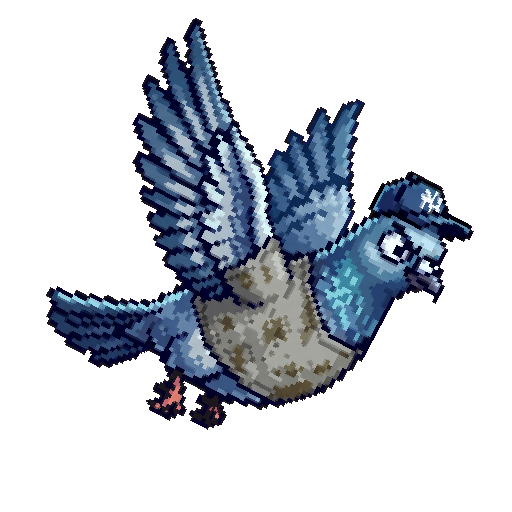
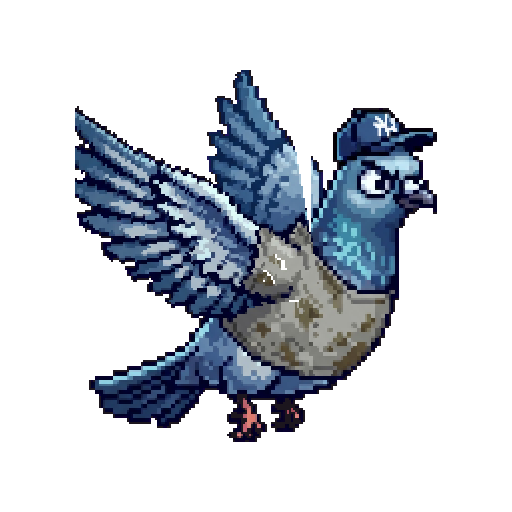
Pigeon de New York : battement d'ailes (ailes levées, à mi-hauteur, baissées) fait par outils/anime-pigeon.py ; une ligne d'état peut porter plusieurs images
Claude-Session: https://claude.ai/code/session_01HgrvGb7mGF2qXcgMaLdPZX

diff --git a/src/rendu/feuilles-ennemis.ts b/src/rendu/feuilles-ennemis.ts
@@ -258,7 +258,7 @@ export const FEUILLES_ENNEMIS: Partial<Record<Genre, Feuille>> = {
     fichier: 'pigeons.png',
     w: 88,
     h: 84,
-    images: [1, 0, 0, 0, 0, 0, 0, 0, 0, 0, 1],
+    images: [3, 0, 0, 0, 0, 0, 0, 0, 0, 0, 1],
     rythme: 8,
     densite: 6,
   },

diff --git a/outils/anime-pigeon.py b/outils/anime-pigeon.py
@@ -1,0 +1,83 @@
+#!/usr/bin/env python3
+"""Le battement d'ailes du pigeon de New York, fait à la main à partir de son sprite de vol.
+
+Usage : python3 outils/anime-pigeon.py      (Pillow et numpy requis)
+
+Entrée  : assets-sources/ennemis/pigeon-1-base.png (le vol, ailes levées)
+Sorties : pigeon-2-base.png (ailes à mi-hauteur) et pigeon-3-base.png (ailes baissées), mêmes dimensions que l'entrée ;
+          fixe-ennemis.py les range sur la ligne du vol (voir ETATS). Le piqué, pigeon-4-base.png, n'est pas touché.
+
+Les ailes (les plumes au-dessus du corps, à gauche de la tête) tournent d'un bloc autour de l'épaule ; le corps, la tête et la
+queue restent en place. Là où l'aile découverte laissait un trou, on reprend la couleur du corps juste en dessous.
+"""
+import pathlib
+import sys
+
+import numpy as np
+from PIL import Image
+
+sys.path.insert(0, str(pathlib.Path(__file__).resolve().parent))
+from anime_commun import SRC, tourne
+from prepare_instrument import natif_et_case
+
+EPAULE = (84, 86)  # où les ailes s'attachent, sur la grille native (recadrée sur la silhouette)
+DEGRES = {2: 10, 3: 20}  # le numéro de l'image → l'angle de l'aile : positif, elle baisse
+
+
+def recadre(chemin):
+    nat, _ = natif_et_case(chemin)
+    ys, xs = np.nonzero(nat[..., 3])
+    return nat[ys.min() : ys.max() + 1, xs.min() : xs.max() + 1]
+
+
+def masques(nat):
+    """L'aile (les plumes au-dessus du corps et à gauche de la tête) et le reste."""
+    h, w = nat.shape[:2]
+    yy, xx = np.mgrid[0:h, 0:w]
+    r, g, b = (nat[..., i].astype(int) for i in range(3))
+    op = nat[..., 3] > 0
+    beige = (r > 100) & (r - b > 12) & (abs(r - g) < 30) & (r >= g - 5)
+    aile = op & (yy <= 118) & (xx <= 117) & ~beige
+    return aile
+
+
+def image_aile(nat, aile, angle):
+    """Le vol avec l'aile tournée de `angle` degrés autour de l'épaule ; les trous laissés par l'aile reprennent le corps dessous."""
+    reste = nat.copy()
+    reste[aile] = 0
+    calque = np.zeros_like(nat)
+    calque[aile] = nat[aile]
+    tournee = tourne(calque, EPAULE, angle, marge=0)
+    sortie = reste.copy()
+    for y, x in zip(*np.nonzero(tournee[..., 3])):
+        sortie[y, x] = tournee[y, x]
+    # les pixels qu'on découvre (ils étaient de l'aile, ils ne sont plus couverts) : la couleur du corps juste en dessous
+    h = nat.shape[0]
+    for y, x in zip(*np.nonzero(aile & (sortie[..., 3] == 0))):
+        # seulement un trou dans le corps : du corps juste dessous, et du corps à côté (pas le ciel au-dessus du dos)
+        dessous = next((k for k in range(y + 1, min(h, y + 4)) if reste[k, x, 3]), None)
+        cote = any(sortie[y, x + d, 3] for d in (-2, -1, 1, 2) if 0 <= x + d < nat.shape[1])
+        if dessous is not None and cote:
+            sortie[y, x] = reste[dessous, x]
+    return sortie
+
+
+def vers_base(nat, chemin):
+    """Le sprite remis dans le format des fichiers de base (deux fois agrandi, centré dans 512 × 512)."""
+    up = np.repeat(np.repeat(nat, 2, 0), 2, 1)
+    base = np.zeros((512, 512, 4), np.uint8)
+    oy, ox = (512 - up.shape[0]) // 2, (512 - up.shape[1]) // 2
+    base[oy : oy + up.shape[0], ox : ox + up.shape[1]] = up
+    Image.fromarray(base).save(chemin)
+
+
+def main():
+    nat = recadre(SRC / 'pigeon-1-base.png')
+    aile = masques(nat)
+    for numero, angle in DEGRES.items():
+        vers_base(image_aile(nat, aile, angle), SRC / f'pigeon-{numero}-base.png')
+        print(f'pigeon-{numero}-base.png : ailes à {angle}°')
+
+
+if __name__ == '__main__':
+    main()

diff --git a/outils/fixe-ennemis.py b/outils/fixe-ennemis.py
@@ -96,13 +96,13 @@ TYPES = {
     'cycliste': ('CYCLISTE', 21),
     # le castor d'Ottawa (ennemi qui charge) : une image, dessinée à la main (pas d'animation pour l'instant)
     'castor': ('CASTOR', 12),
-    # le pigeon de New York (vole, puis pique) : deux apparences, le vol et le piqué (voir ETATS, comme le goéland)
+    # le pigeon de New York : trois images de vol (ailes levées, à mi-hauteur, baissées ; outils/anime-pigeon.py) et le piqué (voir ETATS)
     'pigeon': ('PIGEON', 14, 8),
 }
 
 # les lignes de la planche par état d'animation (ANIM dans jeu/vue.ts) : le vol au repos (0), le piqué en attaque (10).
 # Une planche à lignes : chaque apparence va dans sa ligne, les autres lignes restent vides.
-ETATS = {'goeland': (0, 10), 'pigeon': (0, 10), 'bmxpro': (0, 10), 'champion': (0, 10)}
+ETATS = {'goeland': (0, 10), 'pigeon': (0, 0, 0, 10), 'bmxpro': (0, 10), 'champion': (0, 10)}
 
 # les types dont la marche est tirée de la pose au repos (1er fichier : au repos, ligne 0 ; 2e : l'alerte, la recherche et l'attaque,
 # lignes 7, 8 et 10) : les jambes
@@ -249,12 +249,15 @@ def main():
         if animee:
             planche, compte = pose_animee(images, largeur, h)
         elif type_ in ETATS:
-            # une ligne par état : images[k] va dans la ligne ETATS[type_][k], la planche a autant de lignes que l'état le plus haut
-            rangees = [1 if k in ETATS[type_] else 0 for k in range(max(ETATS[type_]) + 1)]
-            planche = Image.new('RGBA', (largeur, h * len(rangees)), (0, 0, 0, 0))
+            # une ligne par état : images[k] va dans la ligne ETATS[type_][k], la planche a autant de lignes que l'état le plus haut ;
+            # plusieurs images pour une même ligne sont les images successives de cette animation (le battement d'ailes du pigeon)
+            compte = [ETATS[type_].count(k) for k in range(max(ETATS[type_]) + 1)]
+            planche = Image.new('RGBA', (largeur * max(compte), h * len(compte)), (0, 0, 0, 0))
+            suivante = [0] * len(compte)
             for im, ligne in zip(images, ETATS[type_]):
-                planche.alpha_composite(im, ((largeur - im.width) // 2, ligne * h + h - im.height))
-            compte = rangees
+                x = suivante[ligne] * largeur + (largeur - im.width) // 2
+                planche.alpha_composite(im, (x, ligne * h + h - im.height))
+                suivante[ligne] += 1
         else:
             planche = Image.new('RGBA', (largeur * len(images), h), (0, 0, 0, 0))
             for i, im in enumerate(images):

diff --git a/README.md b/README.md
@@ -500,7 +500,7 @@ validé.
   « c » des cartes deviennent un passager perdu et un passager pressé, un habitué du pub et un mouton, un étudiant en
   salopette et un cycliste, un trader et un rat, un hockeyeur (et sa rondelle qui glisse au sol) et un castor, un supporter de
   l'OM et un livreur en scooter ; chaque ville a en plus son spécial (z : la gargouille, u : le pilier du Munster, j : l'élan,
-  n : le pigeon, w : la bernache du Canada, i : le gardien de but, q : le bouliste et sa boule de pétanque ; le bouliste, le supporter de l'OM, le livreur en scooter, le trader, les deux passagers de Beauvais, l'étudiant et les deux cyclistes de Lund sont animés à la main par `outils/anime-bouliste.py`, `outils/anime-supporter.py`, `outils/anime-scooter.py`, `outils/anime-trader.py`, `outils/anime-passagers.py` et `outils/anime-lund.py` (outils communs dans `outils/anime_commun.py` ; une image reçue sur fond magenta se prépare avec `outils/prepare-magenta.py`), qui découpent leur sprite et en tirent repos, marche, attaque et touché, puis `outils/fixe-ennemis.py` en fait la planche).
+  n : le pigeon (le battement d'ailes et le piqué sont faits par `outils/anime-pigeon.py`), w : la bernache du Canada, i : le gardien de but, q : le bouliste et sa boule de pétanque ; le bouliste, le supporter de l'OM, le livreur en scooter, le trader, les deux passagers de Beauvais, l'étudiant et les deux cyclistes de Lund sont animés à la main par `outils/anime-bouliste.py`, `outils/anime-supporter.py`, `outils/anime-scooter.py`, `outils/anime-trader.py`, `outils/anime-passagers.py` et `outils/anime-lund.py` (outils communs dans `outils/anime_commun.py` ; une image reçue sur fond magenta se prépare avec `outils/prepare-magenta.py`), qui découpent leur sprite et en tirent repos, marche, attaque et touché, puis `outils/fixe-ennemis.py` en fait la planche).
   Aucune image en plus à télécharger (protocole v31).
   **Le FISE** (Montpellier, sur les berges du Lez) est fait à la main, zone par zone (`outils/niveaux/fise.py`) : l'entrée
   (l'arche et le logo officiel), le grand parc noir à plateaux roses (tuiles `L` et `U`), le food court à l'ombre des platanes
